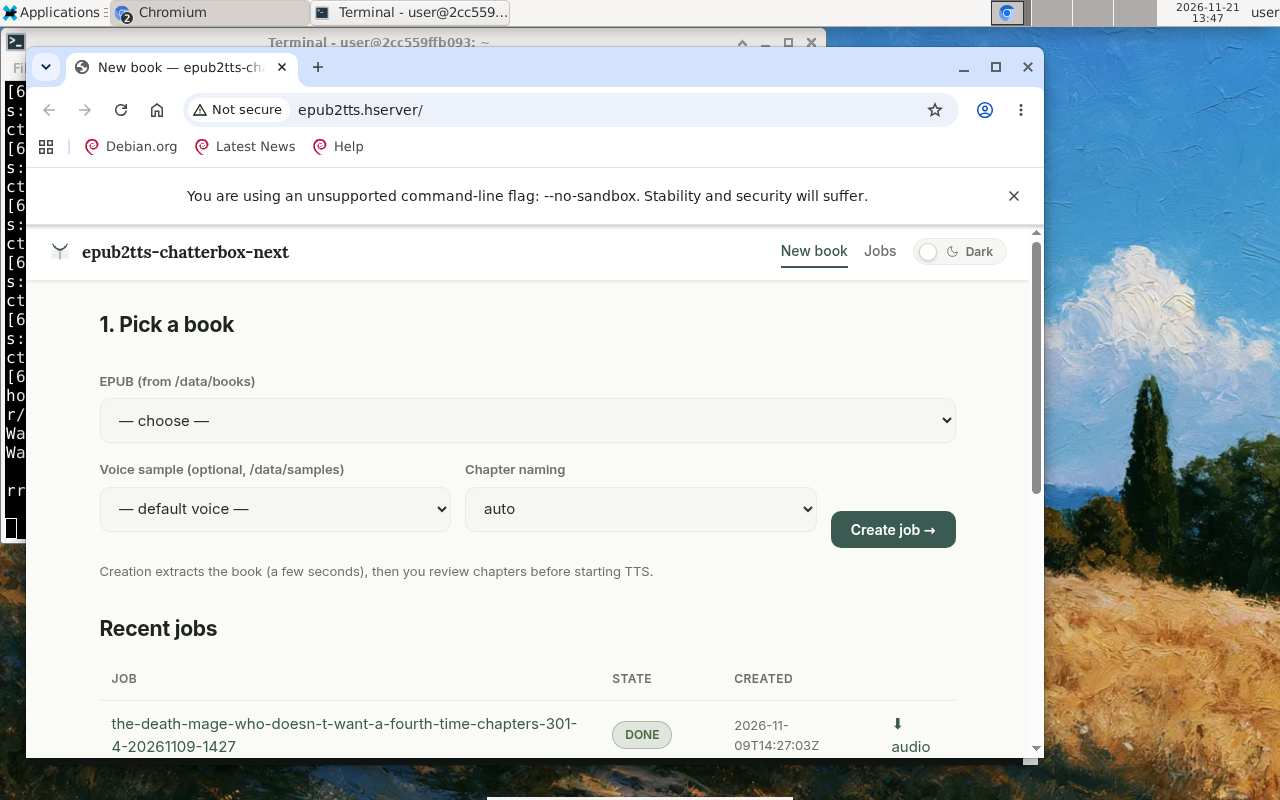
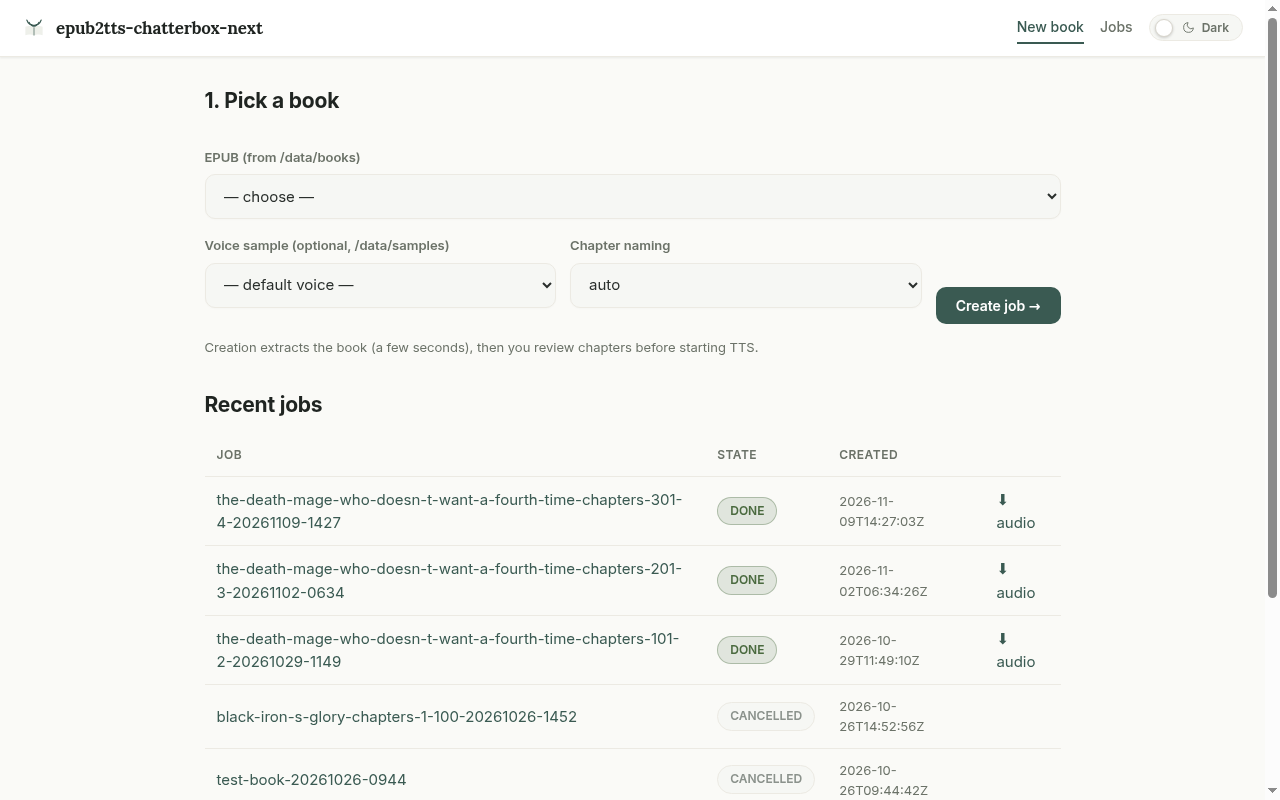
docs(README): replace screenshots with clean page-only captures
- Re-capture light + dark UI screenshots via headless Chromium --screenshot
  so the taskbar, terminal, and desktop are excluded from the frame
- Dark theme pre-seeded via localStorage LevelDB (app's Chromium build
  blocks CDP), page loads in dark mode
- Update progress.md capture-method note

diff --git a/agent/progress.md b/agent/progress.md
@@ -1101,12 +1101,17 @@ is sufficient — no site-packages copy needed for templates.
 Add a light-mode and a dark-mode screenshot of the web UI to `README.md`.
 
 ### Outcome
-- Captured both screenshots from the running app at `http://epub2tts.hserver/`
-  (headless chromium on the host desktop, 1280×800 VNC display).
+- Captured both screenshots directly from the running app at
+  `http://epub2tts.hserver/` using headless Chromium `--screenshot`
+  (1280×800 PNG). Capturing the page directly (rather than the desktop
+  window) keeps the taskbar, terminal, and desktop out of the frame.
 - **Light:** the "Modern Reader" default theme.
-- **Dark:** toggled via the top-right pill (the `theme-toggle` button).
-  Screenshots saved to `media/light-mode.png` and `media/dark-mode.png`
+- **Dark:** pre-seeded `localStorage e2t-theme=dark` into a fresh Chromium
+  profile (the app's restricted Chromium build blocks CDP, so the toggle
+  was set via LevelDB) so the page loads in dark mode.
+- Screenshots saved to `media/light-mode.png` and `media/dark-mode.png`
   (both 1280×800 PNG, verified readable via PIL).
+
 - Inserted both images (center-aligned, `width=100%`) in the **Using the Web UI**
   section, between the numbered steps and the **Option B — Native install** heading,
   with a one-line caption noting the light/dark toggle.
